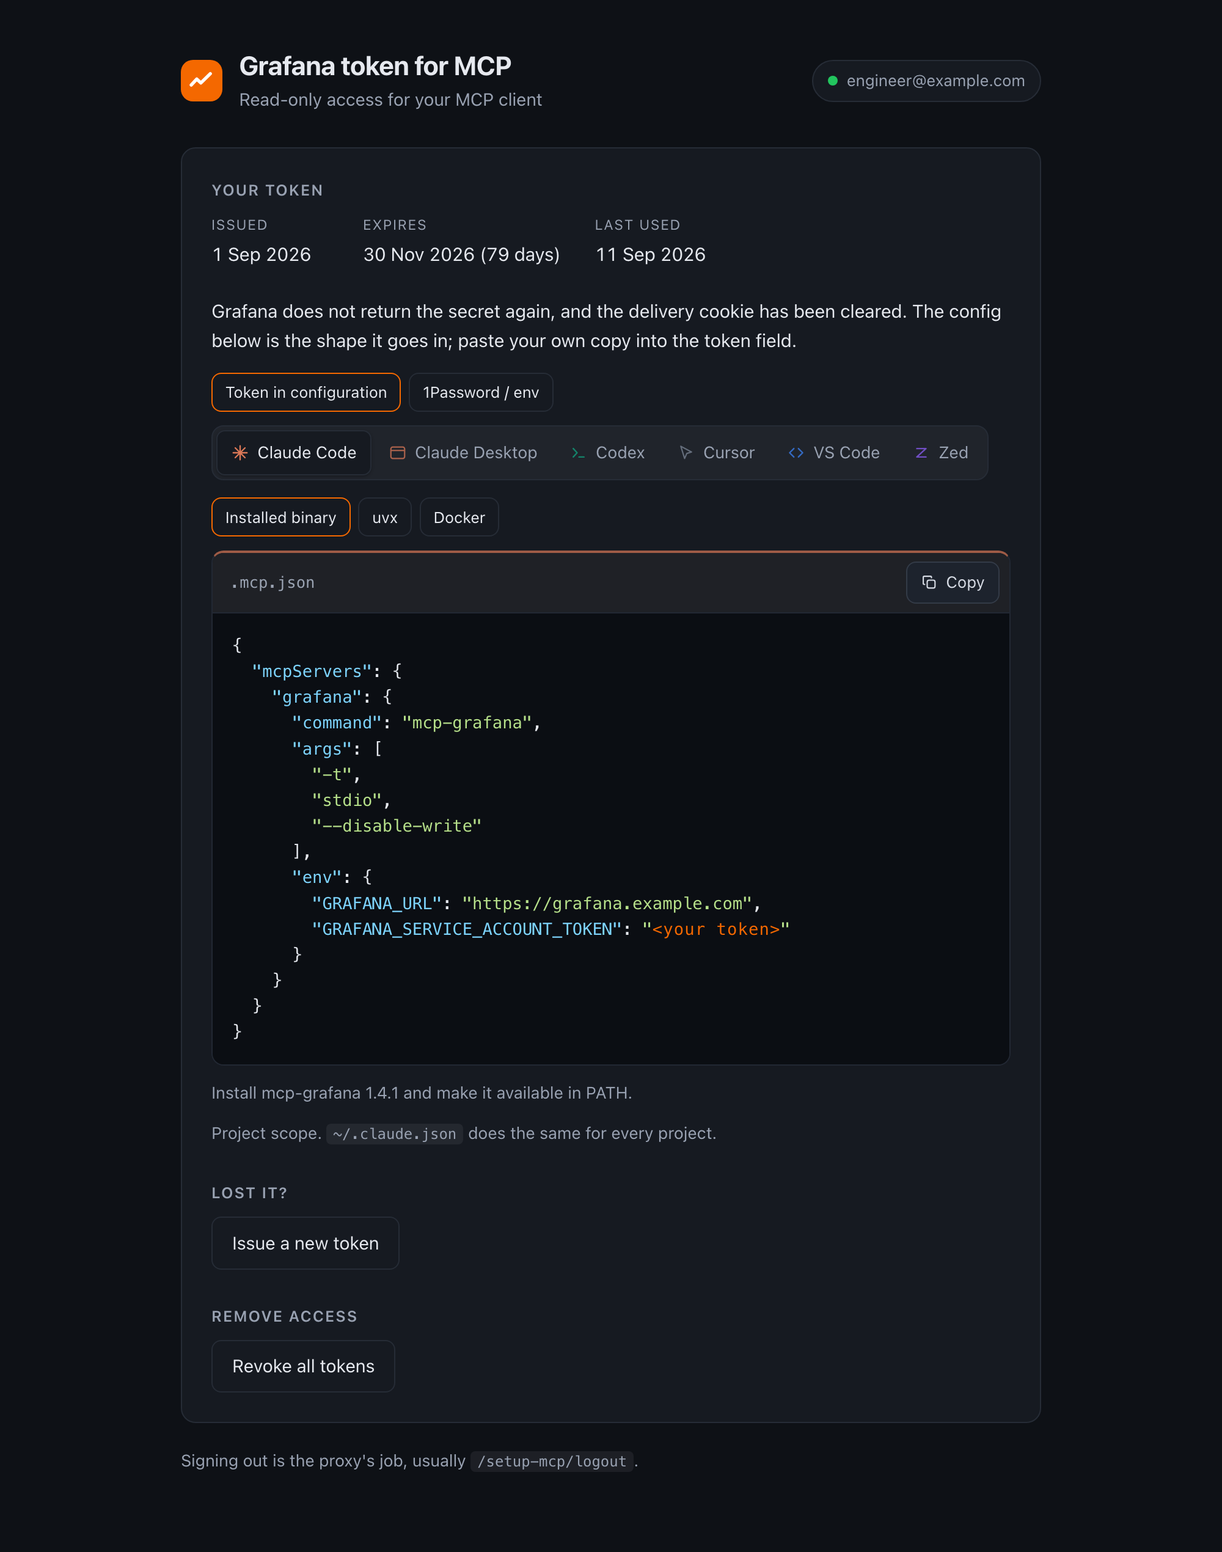
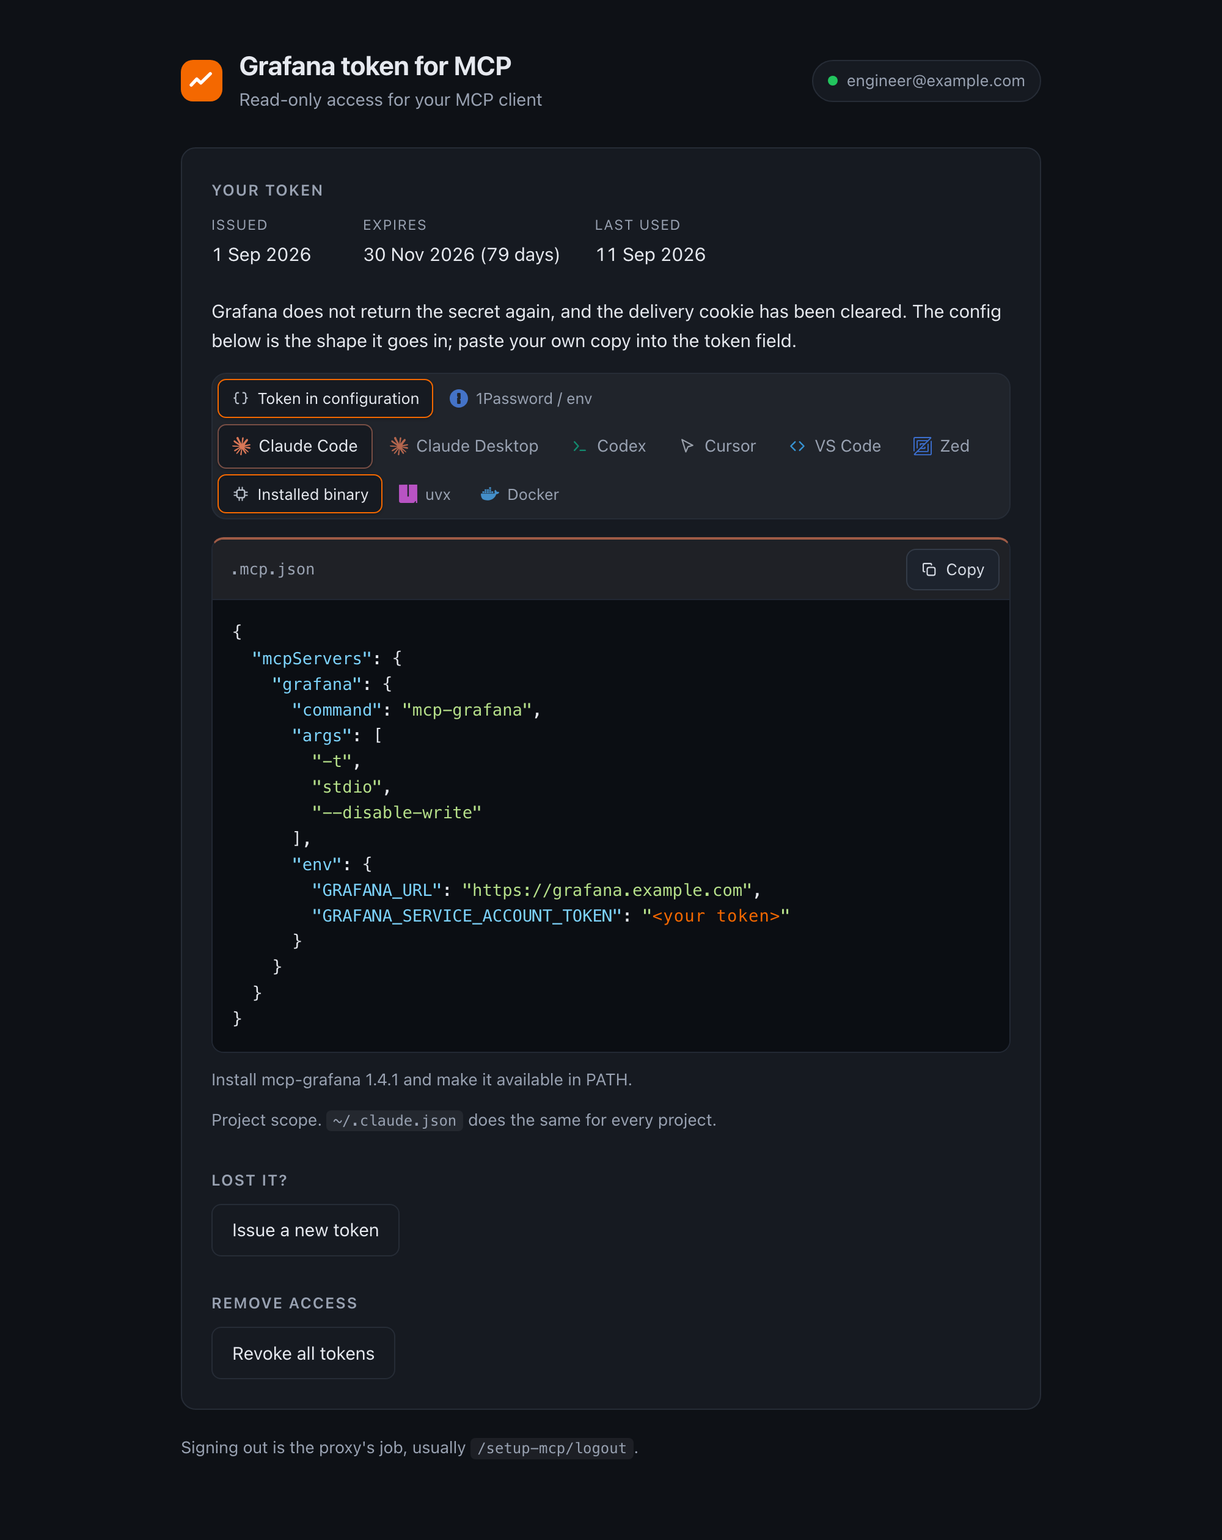
Put the three switches in one tray, with each client's own mark (#34)
Storage, client and launcher were three stacked rows of buttons that looked the
same and read as three separate decisions. They sit in one tray now, grouped by
spacing, with the active segment raised out of it.

The launcher row moved out of the panels to the top level. Every client offers
the same three launchers, and the script already drove every .variant by
data-mode whichever panel it sat in, so six copies of that row were six chances
to drift.

Each control carries its own mark and colour: Claude, Cursor, Zed, uv, Docker
and 1Password come from simple-icons, whose files are CC0 while the marks stay
their owners' trademarks. simple-icons ships neither OpenAI nor VS Code, so
Codex and VS Code keep the drawn glyphs. Cursor's brand is black and Zed's a
deep blue, so dark raises their lightness and keeps the hue; the greyscale ones
become neutral rather than a tinted grey.

The block's rail takes the chosen client's colour through data-format on the
wrapper. Those palette rules are scoped to the controls on purpose: panels and
the pre blocks carry data-format and data-storage too, and an unscoped rule let
a variant repaint everything inside it — the rail came out grey instead of the
client's colour.

diff --git a/internal/server/assets/app.css b/internal/server/assets/app.css
@@ -97,36 +97,50 @@
 
   /* Tabs -------------------------------------------------------------- */
 
-  /* One control rather than six buttons: a tray with the segments inside it,
-     and the active one raised out of the tray. */
-  .tabs {
-    display: inline-flex; flex-wrap: wrap; gap: 2px;
-    margin-bottom: .9rem; padding: 3px;
-    border: 1px solid var(--line); border-radius: 10px;
+  /* One control rather than three rows: storage, client and launcher sit in a
+     tray together, each group separated, the active segment raised out of it. */
+  .toolbar {
+    display: flex; flex-wrap: wrap; align-items: center;
+    /* Groups sit further apart than the segments inside them, which is what
+       separates them once the row wraps and a divider would not. */
+    gap: .3rem 1.1rem;
+    margin-bottom: .9rem; padding: 4px;
+    border: 1px solid var(--line); border-radius: 12px;
     background: color-mix(in srgb, var(--ink) 5%, var(--card));
   }
-  .tab {
+  .toolbar .modes, .toolbar .tabs {
+    display: flex; flex-wrap: wrap; gap: 2px;
+    margin: 0; padding: 0; border: 0; background: none;
+  }
+
+  .tab, .mode {
     display: inline-flex; align-items: center; gap: .4rem;
     padding: .4rem .7rem; font-size: .85rem;
     border: 1px solid transparent; border-radius: 7px;
     background: transparent; color: var(--muted);
   }
-  .tab svg { color: var(--client, var(--muted)); opacity: .75; }
-  .tab:hover { color: var(--ink); }
-  .tab.on {
+  .tab svg, .mode svg { flex: none; color: var(--brand, var(--muted)); opacity: .8; }
+  .tab:hover, .mode:hover { color: var(--ink); }
+  .tab.on, .mode.on {
     color: var(--ink); background: var(--card);
-    border-color: var(--line);
+    border-color: color-mix(in srgb, var(--brand, var(--accent)) 45%, var(--line));
     box-shadow: 0 1px 2px rgba(0, 0, 0, .25);
   }
-  .tab.on svg { opacity: 1; }
+  .tab.on svg, .mode.on svg { opacity: 1; }
 
-  /* One colour per client, so the tab and the block it opens agree. */
-  [data-format="claude-code"]    { --client: #d97757; }
-  [data-format="claude-desktop"] { --client: #d97757; }
-  [data-format="codex"]          { --client: #10a37f; }
-  [data-format="cursor"]         { --client: #7c8797; }
-  [data-format="vscode"]         { --client: #3b82f6; }
-  [data-format="zed"]            { --client: #8b5cf6; }
+  /* Each client and launcher carries its own colour, taken from the brand and
+     lifted where the brand itself is too dark to read on the dark ground. */
+  .tab[data-format="claude-code"], .tab[data-format="claude-desktop"],
+  .clients[data-format="claude-code"], .clients[data-format="claude-desktop"] { --brand: #D97757; }
+  .tab[data-format="codex"], .clients[data-format="codex"]   { --brand: #10A37F; }
+  .tab[data-format="cursor"], .clients[data-format="cursor"]  { --brand: #6B7280; }
+  .tab[data-format="vscode"], .clients[data-format="vscode"]  { --brand: #007ACC; }
+  .tab[data-format="zed"], .clients[data-format="zed"]     { --brand: #084CCF; }
+  .mode[data-mode="binary"]    { --brand: #6B7280; }
+  .mode[data-mode="uvx"]       { --brand: #C13FCC; }
+  .mode[data-mode="docker"]    { --brand: #2496ED; }
+  .storage-mode[data-storage="inline"] { --brand: #6B7280; }
+  .storage-mode[data-storage="env"]    { --brand: #145FE4; }
 
   .note { margin: .7rem 0 0; color: var(--muted); font-size: .85rem; }
 
@@ -136,7 +150,7 @@
 
   .snippet {
     border: 1px solid var(--code-line); border-radius: 10px; overflow: hidden;
-    border-top: 2px solid color-mix(in srgb, var(--client, var(--accent)) 70%, transparent);
+    border-top: 2px solid color-mix(in srgb, var(--brand, var(--accent)) 70%, transparent);
   }
   .snippet-bar {
     display: flex; align-items: center; gap: .75rem;
@@ -227,4 +241,17 @@
     header { flex-wrap: wrap; }
     .chip { flex-basis: 100%; margin-left: 0; }
     .card { padding: 1.15rem; }
+  }
+
+  @media (prefers-color-scheme: dark) {
+    /* Cursor's brand is black and Zed's a deep blue, so the tray would swallow
+       them; hue is kept, lightness raised. */
+    .tab[data-format="cursor"], .clients[data-format="cursor"]  { --brand: #B9C0CB; }
+    .tab[data-format="vscode"], .clients[data-format="vscode"]  { --brand: #3DB1FF; }
+    .tab[data-format="zed"], .clients[data-format="zed"]     { --brand: #4482F8; }
+    .mode[data-mode="binary"]    { --brand: #B9C0CB; }
+    .mode[data-mode="uvx"]       { --brand: #DE5FE9; }
+    .mode[data-mode="docker"]    { --brand: #4CA9F0; }
+    .storage-mode[data-storage="inline"] { --brand: #B9C0CB; }
+    .storage-mode[data-storage="env"]    { --brand: #4D87EF; }
   }

diff --git a/internal/server/assets/app.js b/internal/server/assets/app.js
@@ -35,6 +35,9 @@ function clientPicker() {
       t.setAttribute("aria-selected", on);
     });
     panels.forEach((p) => { p.hidden = p.dataset.format !== id; });
+    // The wrapper carries the client too, which is what colours the block's
+    // rail: the palette keys off data-format wherever it sits.
+    clients.dataset.format = id;
     try { localStorage.setItem("mcp-client", id); } catch {}
   }
 

diff --git a/internal/server/icons.go b/internal/server/icons.go
@@ -2,30 +2,57 @@ package server
 
 import "html/template"
 
-// Plain marks rather than anyone's logo: enough to tell the tabs apart at a
-// glance, and nothing to get wrong about a trademark.
+// Client and launcher marks.
+//
+// The brand marks come from simple-icons, whose files are CC0; the marks
+// themselves remain their owners' trademarks and are here to tell six clients
+// apart at a glance, not to suggest any endorsement. simple-icons ships neither
+// OpenAI nor VS Code any more, so Codex and VS Code keep drawn glyphs, as do
+// the two launchers and the storage modes that have no brand of their own.
 const (
-	iconSpark = template.HTML(`<svg viewBox="0 0 24 24" width="15" height="15" fill="none" aria-hidden="true">
-		<path d="M12 3v18M3 12h18M5.6 5.6l12.8 12.8M18.4 5.6L5.6 18.4"
-		      stroke="currentColor" stroke-width="1.9" stroke-linecap="round"/></svg>`)
+	// Claude, for both Claude Code and Claude Desktop.
+	iconClaude = template.HTML(`<svg viewBox="0 0 24 24" width="15" height="15" aria-hidden="true">
+		<path fill="currentColor" d="m4.7144 15.9555 4.7174-2.6471.079-.2307-.079-.1275h-.2307l-.7893-.0486-2.6956-.0729-2.3375-.0971-2.2646-.1214-.5707-.1215-.5343-.7042.0546-.3522.4797-.3218.686.0608 1.5179.1032 2.2767.1578 1.6514.0972 2.4468.255h.3886l.0546-.1579-.1336-.0971-.1032-.0972L6.973 9.8356l-2.55-1.6879-1.3356-.9714-.7225-.4918-.3643-.4614-.1578-1.0078.6557-.7225.8803.0607.2246.0607.8925.686 1.9064 1.4754 2.4893 1.8336.3643.3035.1457-.1032.0182-.0728-.164-.2733-1.3539-2.4467-1.445-2.4893-.6435-1.032-.17-.6194c-.0607-.255-.1032-.4674-.1032-.7285L6.287.1335 6.6997 0l.9957.1336.419.3642.6192 1.4147 1.0018 2.2282 1.5543 3.0296.4553.8985.2429.8318.091.255h.1579v-.1457l.1275-1.706.2368-2.0947.2307-2.6957.0789-.7589.3764-.9107.7468-.4918.5828.2793.4797.686-.0668.4433-.2853 1.8517-.5586 2.9021-.3643 1.9429h.2125l.2429-.2429.9835-1.3053 1.6514-2.0643.7286-.8196.85-.9046.5464-.4311h1.0321l.759 1.1293-.34 1.1657-1.0625 1.3478-.8804 1.1414-1.2628 1.7-.7893 1.36.0729.1093.1882-.0183 2.8535-.607 1.5421-.2794 1.8396-.3157.8318.3886.091.3946-.3278.8075-1.967.4857-2.3072.4614-3.4364.8136-.0425.0304.0486.0607 1.5482.1457.6618.0364h1.621l3.0175.2247.7892.522.4736.6376-.079.4857-1.2142.6193-1.6393-.3886-3.825-.9107-1.3113-.3279h-.1822v.1093l1.0929 1.0686 2.0035 1.8092 2.5075 2.3314.1275.5768-.3218.4554-.34-.0486-2.2039-1.6575-.85-.7468-1.9246-1.621h-.1275v.17l.4432.6496 2.3436 3.5214.1214 1.0807-.17.3521-.6071.2125-.6679-.1214-1.3721-1.9246L14.38 17.959l-1.1414-1.9428-.1397.079-.674 7.2552-.3156.3703-.7286.2793-.6071-.4614-.3218-.7468.3218-1.4753.3886-1.9246.3157-1.53.2853-1.9004.17-.6314-.0121-.0425-.1397.0182-1.4328 1.9672-2.1796 2.9446-1.7243 1.8456-.4128.164-.7164-.3704.0667-.6618.4008-.5889 2.386-3.0357 1.4389-1.882.929-1.0868-.0062-.1579h-.0546l-6.3385 4.1164-1.1293.1457-.4857-.4554.0608-.7467.2307-.2429 1.9064-1.3114Z"/></svg>`)
 
-	iconWindow = template.HTML(`<svg viewBox="0 0 24 24" width="15" height="15" fill="none" aria-hidden="true">
-		<rect x="3" y="4.5" width="18" height="15" rx="2.5" stroke="currentColor" stroke-width="1.8"/>
-		<path d="M3 9h18" stroke="currentColor" stroke-width="1.8"/></svg>`)
-
-	iconTerminal = template.HTML(`<svg viewBox="0 0 24 24" width="15" height="15" fill="none" aria-hidden="true">
-		<path d="M5 6.5l5 5.5-5 5.5M12.5 17.5H19" stroke="currentColor" stroke-width="1.9"
-		      stroke-linecap="round" stroke-linejoin="round"/></svg>`)
-
+	// Cursor.
 	iconCursor = template.HTML(`<svg viewBox="0 0 24 24" width="15" height="15" fill="none" aria-hidden="true">
 		<path d="M5 3.5l14 7.5-6.2 1.9L10 19.5 5 3.5z" stroke="currentColor" stroke-width="1.7"
 		      stroke-linejoin="round"/></svg>`)
 
+	// Zed.
+	iconZed = template.HTML(`<svg viewBox="0 0 24 24" width="15" height="15" aria-hidden="true">
+		<path fill="currentColor" d="M2.25 1.5a.75.75 0 0 0-.75.75v16.5H0V2.25A2.25 2.25 0 0 1 2.25 0h20.095c1.002 0 1.504 1.212.795 1.92L10.764 14.298h3.486V12.75h1.5v1.922a1.125 1.125 0 0 1-1.125 1.125H9.264l-2.578 2.578h11.689V9h1.5v9.375a1.5 1.5 0 0 1-1.5 1.5H5.185L2.562 22.5H21.75a.75.75 0 0 0 .75-.75V5.25H24v16.5A2.25 2.25 0 0 1 21.75 24H1.655C.653 24 .151 22.788.86 22.08L13.19 9.75H9.75v1.5h-1.5V9.375A1.125 1.125 0 0 1 9.375 8.25h5.314l2.625-2.625H5.625V15h-1.5V5.625a1.5 1.5 0 0 1 1.5-1.5h13.19L21.438 1.5z"/></svg>`)
+
+	// uv, behind the uvx launcher.
+	iconUV = template.HTML(`<svg viewBox="0 0 24 24" width="15" height="15" aria-hidden="true">
+		<path fill="currentColor" d="m0 .1058.0504 11.9496.0403 9.5597c.0055 1.3199 1.08 2.3854 2.4 2.3798l9.5596-.0403 5.9749-.0252.6075-.0026c1.316-.0056 2.3799-1.0963 2.3799-2.4123h1.0946v2.3894L24 23.9042 23.8992.005 12.9056.0513l.0463 9.5245v5.9637h-1.9583L11.04 9.584 10.9936.0594Z"/></svg>`)
+
+	// Docker.
+	iconDocker = template.HTML(`<svg viewBox="0 0 24 24" width="15" height="15" aria-hidden="true">
+		<path fill="currentColor" d="M13.983 11.078h2.119a.186.186 0 00.186-.185V9.006a.186.186 0 00-.186-.186h-2.119a.185.185 0 00-.185.185v1.888c0 .102.083.185.185.185m-2.954-5.43h2.118a.186.186 0 00.186-.186V3.574a.186.186 0 00-.186-.185h-2.118a.185.185 0 00-.185.185v1.888c0 .102.082.185.185.185m0 2.716h2.118a.187.187 0 00.186-.186V6.29a.186.186 0 00-.186-.185h-2.118a.185.185 0 00-.185.185v1.887c0 .102.082.185.185.186m-2.93 0h2.12a.186.186 0 00.184-.186V6.29a.185.185 0 00-.185-.185H8.1a.185.185 0 00-.185.185v1.887c0 .102.083.185.185.186m-2.964 0h2.119a.186.186 0 00.185-.186V6.29a.185.185 0 00-.185-.185H5.136a.186.186 0 00-.186.185v1.887c0 .102.084.185.186.186m5.893 2.715h2.118a.186.186 0 00.186-.185V9.006a.186.186 0 00-.186-.186h-2.118a.185.185 0 00-.185.185v1.888c0 .102.082.185.185.185m-2.93 0h2.12a.185.185 0 00.184-.185V9.006a.185.185 0 00-.184-.186h-2.12a.185.185 0 00-.184.185v1.888c0 .102.083.185.185.185m-2.964 0h2.119a.185.185 0 00.185-.185V9.006a.185.185 0 00-.184-.186h-2.12a.186.186 0 00-.186.186v1.887c0 .102.084.185.186.185m-2.92 0h2.12a.185.185 0 00.184-.185V9.006a.185.185 0 00-.184-.186h-2.12a.185.185 0 00-.184.185v1.888c0 .102.082.185.185.185M23.763 9.89c-.065-.051-.672-.51-1.954-.51-.338.001-.676.03-1.01.087-.248-1.7-1.653-2.53-1.716-2.566l-.344-.199-.226.327c-.284.438-.49.922-.612 1.43-.23.97-.09 1.882.403 2.661-.595.332-1.55.413-1.744.42H.751a.751.751 0 00-.75.748 11.376 11.376 0 00.692 4.062c.545 1.428 1.355 2.48 2.41 3.124 1.18.723 3.1 1.137 5.275 1.137.983.003 1.963-.086 2.93-.266a12.248 12.248 0 003.823-1.389c.98-.567 1.86-1.288 2.61-2.136 1.252-1.418 1.998-2.997 2.553-4.4h.221c1.372 0 2.215-.549 2.68-1.009.309-.293.55-.65.707-1.046l.098-.288Z"/></svg>`)
+
+	// 1Password, behind the environment storage mode.
+	iconOnePassword = template.HTML(`<svg viewBox="0 0 24 24" width="15" height="15" aria-hidden="true">
+		<path fill="currentColor" d="M12 0c6.627 0 12 5.373 12 12 0 6.628-5.373 12-12 12S0 18.628 0 12C0 5.373 5.373 0 12 0m-.893 4.86c-.485 0-.727.001-.913.095a.87.87 0 0 0-.378.379c-.094.185-.095.428-.095.912v2.747c0 .12 0 .182.016.238q.02.075.065.138a1 1 0 0 0 .175.162l.695.564c.113.092.17.139.19.194a.22.22 0 0 1 0 .15c-.02.056-.077.102-.19.194l-.695.564a1 1 0 0 0-.175.162.4.4 0 0 0-.065.138 1 1 0 0 0-.016.238v6.019c0 .485 0 .728.095.913a.87.87 0 0 0 .378.378c.186.094.428.094.913.094h1.786c.485 0 .727 0 .913-.094a.87.87 0 0 0 .378-.378c.095-.185.095-.428.095-.913v-2.747c0-.12 0-.182-.016-.238a.4.4 0 0 0-.065-.138 1 1 0 0 0-.175-.162l-.695-.564c-.113-.092-.17-.138-.191-.193a.22.22 0 0 1 0-.152c.02-.055.078-.1.19-.193l.696-.564a1 1 0 0 0 .175-.162.4.4 0 0 0 .065-.138 1 1 0 0 0 .016-.238V6.246c0-.484 0-.727-.095-.912a.87.87 0 0 0-.378-.379c-.186-.094-.428-.094-.913-.094Z"/></svg>`)
+
+	// Codex, drawn.
+	iconTerminal = template.HTML(`<svg viewBox="0 0 24 24" width="15" height="15" fill="none" aria-hidden="true">
+		<path d="M5 6.5l5 5.5-5 5.5M12.5 17.5H19" stroke="currentColor" stroke-width="1.9"
+		      stroke-linecap="round" stroke-linejoin="round"/></svg>`)
+
+	// VS Code, drawn.
 	iconBrackets = template.HTML(`<svg viewBox="0 0 24 24" width="15" height="15" fill="none" aria-hidden="true">
 		<path d="M9 6.5L3.5 12 9 17.5M15 6.5L20.5 12 15 17.5" stroke="currentColor" stroke-width="1.9"
 		      stroke-linecap="round" stroke-linejoin="round"/></svg>`)
 
-	iconZ = template.HTML(`<svg viewBox="0 0 24 24" width="15" height="15" fill="none" aria-hidden="true">
-		<path d="M6 6.5h12L6 17.5h12" stroke="currentColor" stroke-width="1.9"
-		      stroke-linecap="round" stroke-linejoin="round"/></svg>`)
+	// An installed binary on PATH.
+	iconChip = template.HTML(`<svg viewBox="0 0 24 24" width="15" height="15" fill="none" aria-hidden="true">
+		<rect x="7" y="7" width="10" height="10" rx="2" stroke="currentColor" stroke-width="1.8"/>
+		<path d="M10 3.5v3M14 3.5v3M10 17.5v3M14 17.5v3M3.5 10h3M3.5 14h3M17.5 10h3M17.5 14h3"
+		      stroke="currentColor" stroke-width="1.6" stroke-linecap="round"/></svg>`)
+
+	// The token written straight into the configuration file.
+	iconBraces = template.HTML(`<svg viewBox="0 0 24 24" width="15" height="15" fill="none" aria-hidden="true">
+		<path d="M9 4.5H8A2.5 2.5 0 005.5 7v2.5a2 2 0 01-2 2 2 2 0 012 2V16A2.5 2.5 0 008 18.5h1M15 4.5h1A2.5 2.5 0 0118.5 7v2.5a2 2 0 002 2 2 2 0 00-2 2V16a2.5 2.5 0 01-2.5 2.5h-1"
+		      stroke="currentColor" stroke-width="1.7" stroke-linecap="round" stroke-linejoin="round"/></svg>`)
 )

diff --git a/internal/server/page.go b/internal/server/page.go
@@ -64,7 +64,15 @@ func (d *pageData) fillFrom(t saToken) {
 	}
 }
 
-var page = template.Must(template.New("page").Parse(`<!doctype html>
+// icons the template asks for by name, for the marks that belong to no format.
+var pageIcons = map[string]template.HTML{
+	"braces":    iconBraces,
+	"1password": iconOnePassword,
+}
+
+var page = template.Must(template.New("page").Funcs(template.FuncMap{
+	"icon": func(name string) template.HTML { return pageIcons[name] },
+}).Parse(`<!doctype html>
 <meta charset="utf-8">
 <meta name="viewport" content="width=device-width, initial-scale=1">
 <title>Grafana MCP token</title>
@@ -206,10 +214,29 @@ var page = template.Must(template.New("page").Parse(`<!doctype html>
 </div>
 
 {{ define "snippet" }}
-<div class="clients"{{ with .Token }} data-token="{{ . }}"{{ end }}>
-  <div class="modes" role="radiogroup" aria-label="Token storage">
-    <button type="button" class="storage-mode mode on" data-storage="inline" role="radio" aria-checked="true">Token in configuration</button>
-    <button type="button" class="storage-mode mode" data-storage="env" role="radio" aria-checked="false">1Password / env</button>
+<div class="clients" data-format="{{ (index .Formats 0).ID }}"{{ with .Token }} data-token="{{ . }}"{{ end }}>
+  <div class="toolbar">
+    <div class="modes" role="radiogroup" aria-label="Token storage">
+      <button type="button" class="storage-mode mode on" data-storage="inline" role="radio" aria-checked="true">{{ icon "braces" }}<span>Token in configuration</span></button>
+      <button type="button" class="storage-mode mode" data-storage="env" role="radio" aria-checked="false">{{ icon "1password" }}<span>1Password / env</span></button>
+    </div>
+
+    <div class="tabs" role="tablist" aria-label="Client">
+      {{ range $i, $f := .Formats }}
+        <button type="button" class="tab{{ if eq $i 0 }} on{{ end }}" data-format="{{ $f.ID }}"
+                role="tab" aria-selected="{{ if eq $i 0 }}true{{ else }}false{{ end }}">
+          {{ $f.Icon }}<span>{{ $f.Name }}</span>
+        </button>
+      {{ end }}
+    </div>
+
+    {{/* Every client offers the same three launchers, so one row drives them all. */}}
+    <div class="modes" role="radiogroup" aria-label="Launch mode">
+      {{ range $j, $v := (index .Formats 0).Variants }}
+        <button type="button" class="mode{{ if eq $j 0 }} on{{ end }}" data-mode="{{ $v.ID }}"
+                role="radio" aria-checked="{{ if eq $j 0 }}true{{ else }}false{{ end }}">{{ $v.Icon }}<span>{{ $v.Name }}</span></button>
+      {{ end }}
+    </div>
   </div>
   <div class="env-guide" hidden>
     <ol>
@@ -229,23 +256,8 @@ var page = template.Must(template.New("page").Parse(`<!doctype html>
     <p class="note">Saving to 1Password is manual. The env configuration contains no token.
     After rotation, update the Environment and restart the MCP server.</p>
   </div>
-  <div class="tabs" role="tablist" aria-label="Client">
-    {{ range $i, $f := .Formats }}
-      <button type="button" class="tab{{ if eq $i 0 }} on{{ end }}" data-format="{{ $f.ID }}"
-              role="tab" aria-selected="{{ if eq $i 0 }}true{{ else }}false{{ end }}">
-        {{ $f.Icon }}<span>{{ $f.Name }}</span>
-      </button>
-    {{ end }}
-  </div>
-
   {{ range $i, $f := .Formats }}
     <div class="panel" data-format="{{ $f.ID }}" role="tabpanel"{{ if ne $i 0 }} hidden{{ end }}>
-      <div class="modes" role="radiogroup" aria-label="Launch mode">
-        {{ range $j, $v := $f.Variants }}
-          <button type="button" class="mode{{ if eq $j 0 }} on{{ end }}" data-mode="{{ $v.ID }}"
-                  role="radio" aria-checked="{{ if eq $j 0 }}true{{ else }}false{{ end }}">{{ $v.Name }}</button>
-        {{ end }}
-      </div>
       {{ range $j, $v := $f.Variants }}
         <div class="variant" data-mode="{{ $v.ID }}"{{ if ne $j 0 }} hidden aria-hidden="true"{{ end }}>
           <div class="snippet">

diff --git a/internal/server/formats.go b/internal/server/formats.go
@@ -21,6 +21,7 @@ type mcpVariant struct {
 	Note    string
 	Body    template.HTML
 	EnvBody template.HTML
+	Icon    template.HTML
 }
 
 // mcpFormat is one client's way of spelling the same server: a file, a shape
@@ -47,7 +48,7 @@ func formats(publicURL, mask string) []mcpFormat {
 			File:   ".mcp.json",
 			Note:   "Project scope. <code>~/.claude.json</code> does the same for every project.",
 			Accent: "#d97757",
-			Icon:   iconSpark,
+			Icon:   iconClaude,
 			Body:   highlightJSON(mcpServersJSON("mcpServers", publicURL, false), mask),
 		},
 		{
@@ -56,7 +57,7 @@ func formats(publicURL, mask string) []mcpFormat {
 			File:   "claude_desktop_config.json",
 			Note:   "Settings → Developer → Edit Config.",
 			Accent: "#d97757",
-			Icon:   iconWindow,
+			Icon:   iconClaude,
 			Body:   highlightJSON(mcpServersJSON("mcpServers", publicURL, false), mask),
 		},
 		{
@@ -91,7 +92,7 @@ func formats(publicURL, mask string) []mcpFormat {
 			File:   "settings.json",
 			Note:   "Zed nests the command in an object of its own.",
 			Accent: "#8b5cf6",
-			Icon:   iconZ,
+			Icon:   iconZed,
 			Body:   highlightJSON(zedJSON(publicURL), mask),
 		},
 	}
@@ -101,10 +102,13 @@ func formats(publicURL, mask string) []mcpFormat {
 			switch mode {
 			case "binary":
 				v.Name, v.Note = "Installed binary", "Install mcp-grafana "+mcpVersion+" and make it available in PATH."
+				v.Icon = iconChip
 			case "uvx":
 				v.Name, v.Note = "uvx", "Requires uv. Downloads mcp-grafana "+mcpVersion+"."
+				v.Icon = iconUV
 			case "docker":
 				v.Name, v.Note = "Docker", "Requires Docker. The container must be able to reach the Grafana URL."
+				v.Icon = iconDocker
 			}
 			switch out[i].ID {
 			case "codex":

diff --git a/CLAUDE.md b/CLAUDE.md
@@ -62,6 +62,20 @@ Lease concurrency, run the real TLS, Keycloak, Envoy, and Grafana suite describe
 in [integration/README.md](integration/README.md). A static discovery fixture
 cannot verify authentication or token lifecycle.
 
+The client, launcher and storage switches share one tray (`.toolbar`). Every
+client offers the same three launchers, so that row is rendered once at the top
+level rather than per panel — the script already drove every `.variant` by
+`data-mode`, whichever panel it sat in.
+
+Marks come from simple-icons (CC0 files, trademarks still their owners'); Codex
+and VS Code keep drawn glyphs because simple-icons ships neither. Each control
+sets `--brand`, and the block's rail follows the chosen client through
+`data-format` on `.clients`. Keep those palette selectors scoped to the controls
+(`.tab[data-format=…]`, `.mode[data-mode=…]`, `.storage-mode[data-storage=…]`):
+panels and the `<pre>` blocks carry the same attributes, and an unscoped rule
+lets a variant overwrite the brand for everything inside it. Dark overrides the
+brands that are too dark to read on it — Cursor's is black, Zed's a deep blue.
+
 The stylesheet and the page script are files under `internal/server/assets`,
 embedded in the binary and served at `{BASE_PATH}/assets/app.<hash>.css|js`. The
 hash comes from the content, so the response is immutable-cacheable and a
